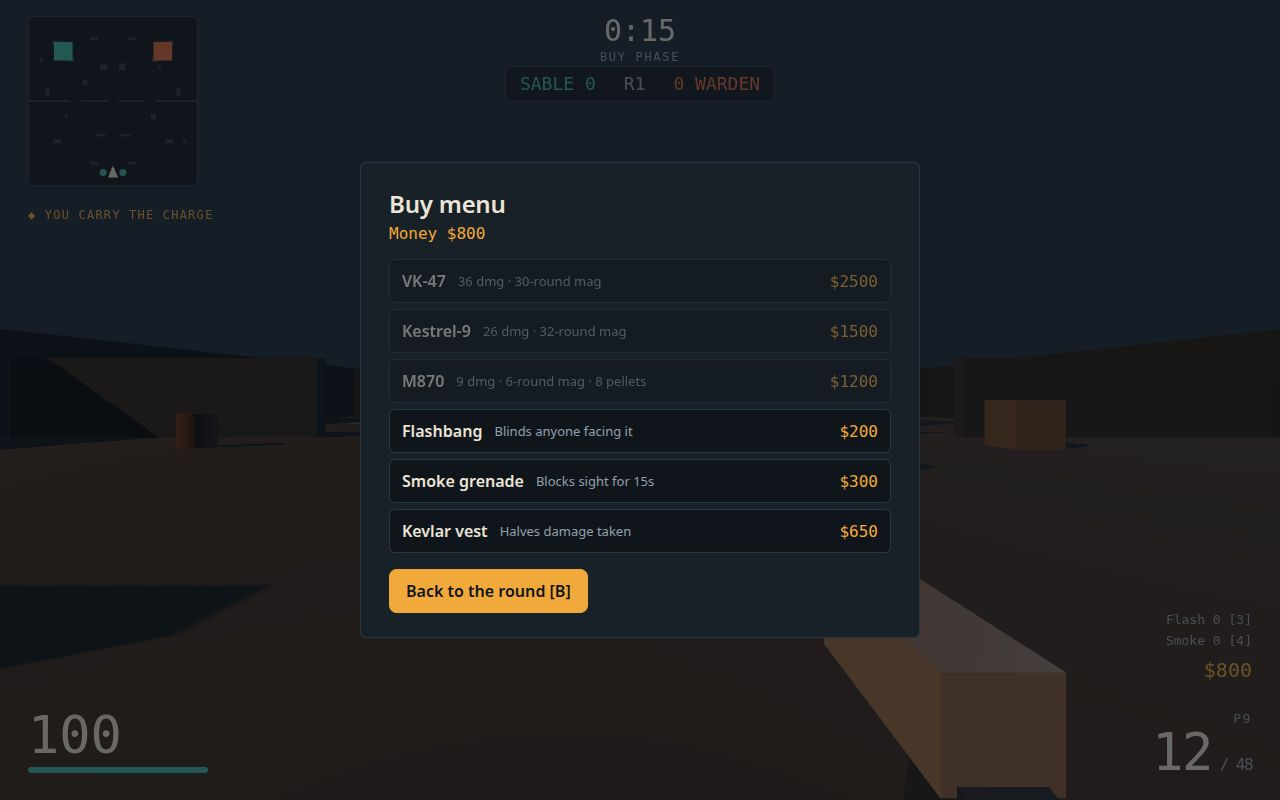
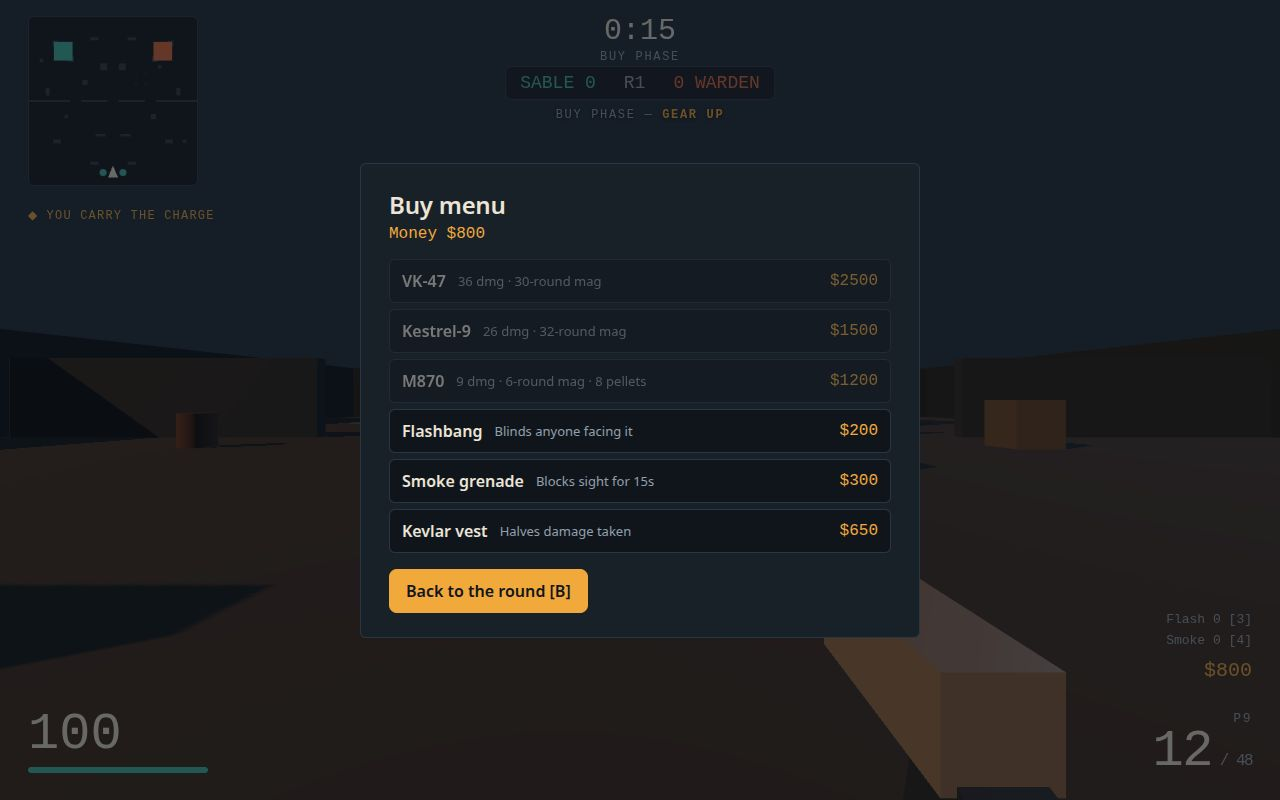
Sharpen the judged presentation (second-opinion steer)
- Cover is now a live round: rifle in the foreground, two Warden bots in
  the open, a kill on the feed, mid-match score (Sable 2-1, round 4).
  Shot order is play / start / buy / end; the round banner is hidden in
  staged frames so it can never contradict the staged state.
- Combat readability: Warden bots glow hotter (emissive) against the dusk
  map; kill hitmarker turns red and grows; new damage-direction arc
  around the crosshair points at whoever shot the player.
- HUD hierarchy: a one-line objective under the scoreboard names the
  current job (gear up / plant A or B / escort the carrier / defend the
  site); bomb bar moved down so nothing overlaps.
- Landmarks: floating A/B site letters (canvas textures, no assets) read
  from any approach. Footsteps are wired (one tap per stride).
- Live checks still 15/15, clean console; dossier 122,441 bytes.

diff --git a/game/src/main.js b/game/src/main.js
@@ -74,6 +74,9 @@ let paused = false;
 let frozen = false;
 let selected = 'gun'; // 'gun' | 'flash' | 'smoke'
 let throwCooldown = 0;
+let stepAcc = 0;
+let stepLastX = 0;
+let stepLastZ = 0;
 let prevFiring = false;
 let plantProgress = 0;
 let plantSite = null;
@@ -126,6 +129,9 @@ function resetLoadoutForRound() {
   plantProgress = 0;
   plantSite = null;
   spectateId = null;
+  stepAcc = 0;
+  stepLastX = player.body.position.x;
+  stepLastZ = player.body.position.z;
   grenades.reset();
   bombMesh.visible = false;
   bombLight.intensity = 0;
@@ -311,6 +317,15 @@ function damageEntity(target, amount, headshot, attacker) {
   if (target === player) {
     hud.damageFlash();
     audio.hurt();
+    if (attacker && attacker.kind === 'bot') {
+      // Direction of the shot in player-local space: 0 ahead, positive to the right.
+      const dx = attacker.pos.x - player.body.position.x;
+      const dz = attacker.pos.z - player.body.position.z;
+      const yaw = player.body.yaw;
+      const lx = dx * Math.cos(yaw) - dz * Math.sin(yaw);
+      const lz = dx * Math.sin(yaw) + dz * Math.cos(yaw);
+      hud.showDamageDirection(Math.atan2(lx, -lz));
+    }
   }
   if (attacker === player) {
     hud.hitMarker(target.health <= 0, shot ? 4000 : 90);
@@ -476,6 +491,16 @@ function step(dt) {
 
   // Continuous input: movement always, firing and planting only while live.
   playerBody.step(dt, input.state.keys);
+  // Footsteps: one soft tap per stride while moving on the ground.
+  if (player.alive && player.body.onGround && playerBody.groundSpeed() > 0.5) {
+    stepAcc += Math.hypot(player.body.position.x - stepLastX, player.body.position.z - stepLastZ);
+    if (stepAcc > 2.4) {
+      stepAcc = 0;
+      audio.footstep();
+    }
+  }
+  stepLastX = player.body.position.x;
+  stepLastZ = player.body.position.z;
   weapons.step(dt, playerBody.groundSpeed() > 0.5, input.state.aiming && selected === 'gun');
   const firing = input.state.firing && !hud.buyOpen;
   const def = weapons.def();
@@ -597,6 +622,13 @@ function syncHud() {
   const timer = state.bomb.planted ? state.bomb.timer : state.phaseTime;
   hud.setTimer(state.phase === 'matchEnd' ? 0 : timer, state.phase);
   hud.setScore(state.score.sable, state.score.warden, state.round);
+  // Objective line: one short instruction for the current state.
+  if (state.phase === 'buy') hud.setObjective('Buy phase — <b>gear up</b>');
+  else if (state.phase === 'live' && state.bomb.planted) hud.setObjective('Charge planted — <b>defend the site</b>');
+  else if (state.phase === 'live' && state.bomb.carrier === 'player') hud.setObjective('Plant the charge — <b>site A or B</b>');
+  else if (state.phase === 'live' && state.bomb.carrier) hud.setObjective('Escort <b>the carrier</b>');
+  else if (state.phase === 'live') hud.setObjective('Eliminate <b>the Warden</b>');
+  else hud.setObjective('');
   hud.setCharge(state.bomb.carrier === 'player' && !state.bomb.planted && player.alive);
   const mates = bots.bots.filter((b) => b.team === 'sable').map((b) => ({ x: b.pos.x, z: b.pos.z, alive: b.alive }));
   hud.drawMinimap(
@@ -708,19 +740,36 @@ function runShot(name) {
     settle(30);
     hud.showBuy(buyItems(), state.money.player);
   } else if (name === 'play') {
+    // The cover frame: a live round mid-fight — rifle in the foreground, two Warden
+    // bots in the open, a kill already on the feed, mid-match score.
     state.phase = 'live';
     state.phaseTime = 87;
-    player.body.position.set(0, 0, 8);
+    state.score.sable = 2;
+    state.score.warden = 1;
+    state.round = 4;
+    player.body.position.set(0, 0, 10);
     player.body.yaw = 0;
     player.body.pitch = 0;
+    player.primary = 'vk47';
+    weapons.switchTo('vk47');
     const bram = bots.byId('bram');
-    bram.pos.set(1.5, 0, -6);
+    bram.pos.set(0.5, 0, 1);
     bram.yaw = Math.PI;
     bram.state = 'hold';
     bram.holdYaw = Math.PI;
     bram.holdUntil = state.simTime + 60;
+    const onyx = bots.byId('onyx');
+    onyx.pos.set(-1.4, 0, 2.5);
+    onyx.yaw = Math.PI * 0.9;
+    onyx.state = 'hold';
+    onyx.holdYaw = Math.PI * 0.8;
+    onyx.holdUntil = state.simTime + 60;
+    // Blinded so both hold still for the frame instead of engaging mid-settle.
+    bots.blind(bram, state.simTime + 60, 1);
+    bots.blind(onyx, state.simTime + 60, 1);
     settle(10);
-    aimPoint.set(1.5, 1.2, -6);
+    hud.killfeedAdd({ killer: 'Rook', killerTeam: 'sable', victim: 'Fenn', victimTeam: 'warden', headshot: false });
+    aimPoint.set(0.5, 1.2, 1);
     aimAt(aimPoint);
     playerShoot();
     settle(1);
@@ -738,6 +787,9 @@ function runShot(name) {
     settle(5);
     hud.showOverlay('end', { copy: 'Sable takes the match 5 – 3. Yard 7 is yours — play again to run it back.' });
   }
+  // The round banner runs on wall-clock time, so a fast load could catch it mid-frame
+  // and contradict the staged state (it says Round 1 while the shot is round 4).
+  hud.hideBanner();
   syncCamera();
   syncHud();
   paintTwiceThenReady();

diff --git a/game/index.html b/game/index.html
@@ -33,6 +33,9 @@
   #hitmarker { position: fixed; left: 50%; top: 50%; width: 26px; height: 26px; transform: translate(-50%, -50%) rotate(45deg); opacity: 0; transition: opacity 90ms linear; }
   #hitmarker.on { opacity: 1; }
   #hitmarker i { position: absolute; background: var(--accent); }
+  #hitmarker.kill i { background: var(--danger); }
+  #dmgdir { position: fixed; left: 50%; top: 50%; width: 140px; height: 140px; transform: translate(-50%, -50%); opacity: 0; transition: opacity 300ms linear; pointer-events: none; }
+  #dmgdir.on { opacity: 1; }
   #hitmarker i:nth-child(1) { left: 12px; top: 0; width: 2px; height: 8px; }
   #hitmarker i:nth-child(2) { left: 12px; bottom: 0; width: 2px; height: 8px; }
   #hitmarker i:nth-child(3) { top: 12px; left: 0; height: 2px; width: 8px; }
@@ -60,6 +63,8 @@
   #score-sable { color: var(--sable); }
   #score-warden { color: var(--warden); }
   #score-mid { color: var(--muted); }
+  #objective { position: fixed; left: 50%; top: 108px; transform: translateX(-50%); font-family: var(--font-readout); font-size: 12px; letter-spacing: .14em; color: var(--muted); text-transform: uppercase; text-shadow: 0 1px 4px #000; white-space: nowrap; }
+  #objective b { color: var(--accent); font-weight: 600; }
   #minimap-wrap { position: fixed; left: 28px; top: 16px; border: 1px solid var(--hairline); border-radius: var(--radius); overflow: hidden; background: rgba(16,21,28,.78); }
   #minimap { display: block; }
   #killfeed { position: fixed; right: 28px; top: 16px; display: flex; flex-direction: column; gap: 4px; align-items: flex-end; font-size: 13px; font-family: var(--font-readout); }
@@ -70,7 +75,7 @@
   #banner.on { opacity: 1; }
   #banner-title { font-size: 44px; font-weight: 600; letter-spacing: .02em; text-shadow: 0 2px 12px #000; }
   #banner-sub { margin-top: 6px; font-size: 16px; color: var(--muted); text-shadow: 0 1px 6px #000; }
-  #bomb { position: fixed; left: 50%; top: 118px; transform: translateX(-50%); width: 220px; text-align: center; font-family: var(--font-readout); }
+  #bomb { position: fixed; left: 50%; top: 136px; transform: translateX(-50%); width: 220px; text-align: center; font-family: var(--font-readout); }
   #bomb-label { font-size: 13px; letter-spacing: .12em; color: var(--danger); text-transform: uppercase; }
   #bomb-bar { height: 6px; margin-top: 5px; background: var(--hairline); border-radius: 3px; overflow: hidden; }
   #bomb-fill { height: 100%; width: 100%; background: var(--danger); }
@@ -84,7 +89,7 @@
   #flash { position: fixed; inset: 0; background: #fff; opacity: 0; pointer-events: none; }
   #damage { position: fixed; inset: 0; pointer-events: none; opacity: 0; transition: opacity 120ms linear; box-shadow: inset 0 0 90px 30px rgba(224,72,62,.55); }
   #buy { position: fixed; inset: 0; display: grid; place-items: center; background: rgba(16,21,28,.6); pointer-events: auto; }
-  #buy[hidden], #bomb[hidden], #plant[hidden], #hint[hidden], #charge[hidden] { display: none; }
+  #buy[hidden], #bomb[hidden], #plant[hidden], #hint[hidden], #charge[hidden], #objective[hidden] { display: none; }
   #buy-panel { width: min(560px, 94vw); padding: 24px 28px; background: var(--surface); border: 1px solid var(--hairline); border-radius: var(--radius); }
   #buy-panel h2 { margin: 0 0 4px; font-size: 24px; font-weight: 600; letter-spacing: -.01em; }
   #buy-money { margin: 0 0 16px; font-family: var(--font-readout); color: var(--accent); }
@@ -114,12 +119,14 @@
 <div id="hud" aria-hidden="true">
   <div id="crosshair"><i></i><i></i><i></i><i></i></div>
   <div id="hitmarker"><i></i><i></i><i></i><i></i></div>
+  <svg id="dmgdir" viewBox="0 0 140 140" aria-hidden="true"><path d="M 18 40 A 60 60 0 0 1 122 40" fill="none" stroke="#e0483e" stroke-width="7" stroke-linecap="round"/></svg>
   <div id="ammo"><div id="weapon-name">P9</div><div id="ammo-nums"><span id="ammo-mag">12</span><span id="ammo-reserve">/ 48</span></div></div>
   <div id="health"><div id="health-num">100</div><div id="health-bar"><div id="health-fill"></div></div><div id="armor-tag"></div></div>
   <div id="money">$800</div>
   <div id="grenades"><div>Flash <span id="grenade-flash">0</span> [3]</div><div>Smoke <span id="grenade-smoke">0</span> [4]</div></div>
   <div id="timer"><div id="timer-val">0:15</div><div id="round-label">Buy phase</div></div>
   <div id="scoreboard"><span id="score-sable">SABLE 0</span><span id="score-mid">R1</span><span id="score-warden">0 WARDEN</span></div>
+  <div id="objective" hidden></div>
   <div id="minimap-wrap"><canvas id="minimap" width="168" height="168"></canvas></div>
   <div id="killfeed"></div>
   <div id="banner"><div id="banner-title"></div><div id="banner-sub"></div></div>

diff --git a/game/src/hud.js b/game/src/hud.js
@@ -44,6 +44,8 @@ export function createHud(world, callbacks) {
   const scoreSable = $('score-sable');
   const scoreWarden = $('score-warden');
   const scoreMid = $('score-mid');
+  const objectiveEl = $('objective');
+  const dmgdir = $('dmgdir');
   const killfeed = $('killfeed');
   const banner = $('banner');
   const bannerTitle = $('banner-title');
@@ -73,9 +75,11 @@ export function createHud(world, callbacks) {
   let lastMoney = -1;
   let lastTimer = '';
   let lastScore = '';
+  let lastObjective = '';
   let hitTimer = 0;
   let bannerTimer = 0;
   let damageTimer = 0;
+  let dmgdirTimer = 0;
   let buyOpen = false;
 
   play.addEventListener('click', () => callbacks.onPlay());
@@ -183,6 +187,13 @@ export function createHud(world, callbacks) {
       scoreWarden.textContent = `${warden} WARDEN`;
       scoreMid.textContent = `R${round}`;
     },
+    // One line under the scoreboard naming the current objective; empty hides it.
+    setObjective(html) {
+      if (html === lastObjective) return;
+      lastObjective = html;
+      objectiveEl.hidden = html === '';
+      objectiveEl.innerHTML = html;
+    },
     setBomb(timer, total) {
       bombBox.hidden = false;
       bombLabel.textContent = `Charge planted — ${Math.max(0, timer).toFixed(1)}`;
@@ -225,14 +236,28 @@ export function createHud(world, callbacks) {
       clearTimeout(bannerTimer);
       bannerTimer = setTimeout(() => banner.classList.remove('on'), ms);
     },
+    hideBanner() {
+      clearTimeout(bannerTimer);
+      banner.classList.remove('on');
+    },
     hitMarker(killed, holdMs = 90) {
       hitmarker.classList.add('on');
+      hitmarker.classList.toggle('kill', killed);
       hitmarker.style.transform = killed ? 'translate(-50%, -50%) rotate(45deg) scale(1.25)' : '';
       clearTimeout(hitTimer);
       hitTimer = setTimeout(() => {
         hitmarker.classList.remove('on');
+        hitmarker.classList.remove('kill');
         hitmarker.style.transform = '';
       }, holdMs);
+    },
+    // A red arc around the crosshair pointing toward whoever just shot the player.
+    // angleRad is 0 when the attacker is straight ahead, positive to the right.
+    showDamageDirection(angleRad) {
+      dmgdir.style.transform = `translate(-50%, -50%) rotate(${angleRad * (180 / Math.PI)}deg)`;
+      dmgdir.classList.add('on');
+      clearTimeout(dmgdirTimer);
+      dmgdirTimer = setTimeout(() => dmgdir.classList.remove('on'), 900);
     },
     setFlash(opacity) {
       flashEl.style.opacity = String(Math.max(0, Math.min(1, opacity)));

diff --git a/game/src/world.js b/game/src/world.js
@@ -142,6 +142,34 @@ export function createWorld(scene) {
   paintB.position.set(16, 0.02, -16);
   group.add(paintB);
 
+  // Floating site letters, drawn on canvas at load (no external assets): two crossed
+  // planes per site so the letter reads from any approach. Decor only — never shot at.
+  function siteLetter(letter, color, x, z) {
+    const canvas = document.createElement('canvas');
+    canvas.width = 256;
+    canvas.height = 256;
+    const ctx2d = canvas.getContext('2d');
+    ctx2d.font = '700 190px system-ui, sans-serif';
+    ctx2d.textAlign = 'center';
+    ctx2d.textBaseline = 'middle';
+    ctx2d.lineWidth = 16;
+    ctx2d.strokeStyle = 'rgba(16,21,28,0.9)';
+    ctx2d.strokeText(letter, 128, 136);
+    ctx2d.fillStyle = color;
+    ctx2d.fillText(letter, 128, 136);
+    const texture = new THREE.CanvasTexture(canvas);
+    const material = new THREE.MeshBasicMaterial({ map: texture, transparent: true, side: THREE.DoubleSide, depthWrite: false });
+    const geo = new THREE.PlaneGeometry(3.4, 3.4);
+    for (const rotation of [0, Math.PI / 2]) {
+      const plane = new THREE.Mesh(geo, material);
+      plane.position.set(x, 4.6, z);
+      plane.rotation.y = rotation;
+      group.add(plane);
+    }
+  }
+  siteLetter('A', '#3fb8a6', -16, -16);
+  siteLetter('B', '#e0683a', 16, -16);
+
   // Water tower landmark at (9, -7): four legs, a tank and a cone roof.
   for (const [lx, lz] of [[-1.6, -1.6], [1.6, -1.6], [-1.6, 1.6], [1.6, 1.6]]) {
     box(0.35, 6.4, 0.35, 9 + lx, 3.2, -7 + lz, mat.rust);

diff --git a/game/src/bots.js b/game/src/bots.js
@@ -32,8 +32,10 @@ const ROSTER = [
 
 export function createBots(scene, world, ctx) {
   const teamMat = {
-    sable: new THREE.MeshStandardMaterial({ color: new THREE.Color(PALETTE.sable), roughness: 0.7 }),
-    warden: new THREE.MeshStandardMaterial({ color: new THREE.Color(PALETTE.warden), roughness: 0.7 }),
+    // A little self-light so both teams read against the dusk ground; the Warden
+    // glows hotter, because an enemy must be unmissable at a glance.
+    sable: new THREE.MeshStandardMaterial({ color: new THREE.Color(PALETTE.sable), emissive: new THREE.Color(PALETTE.sable), emissiveIntensity: 0.25, roughness: 0.7 }),
+    warden: new THREE.MeshStandardMaterial({ color: new THREE.Color(PALETTE.warden), emissive: new THREE.Color(PALETTE.warden), emissiveIntensity: 0.5, roughness: 0.7 }),
   };
   const headMat = new THREE.MeshStandardMaterial({ color: new THREE.Color(PALETTE.ink), roughness: 0.6 });
   const darkMat = new THREE.MeshStandardMaterial({ color: new THREE.Color(PALETTE.hairline), roughness: 0.8 });
